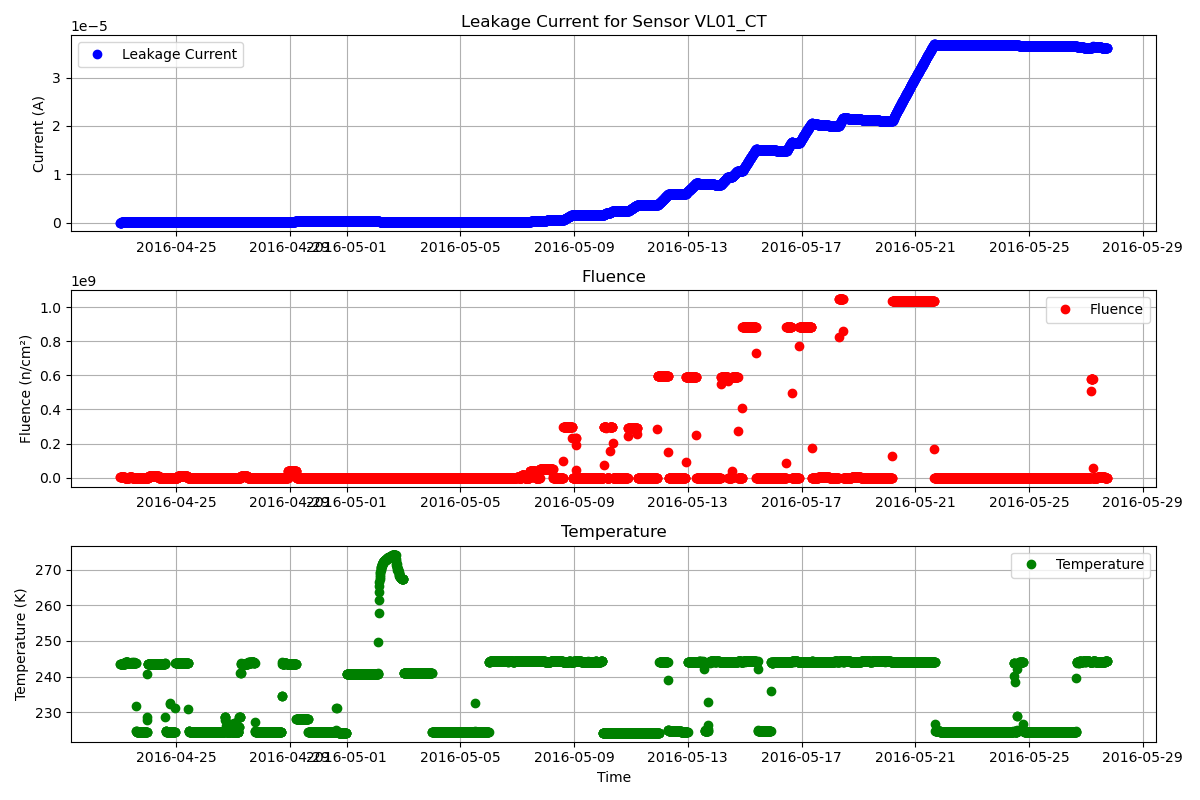
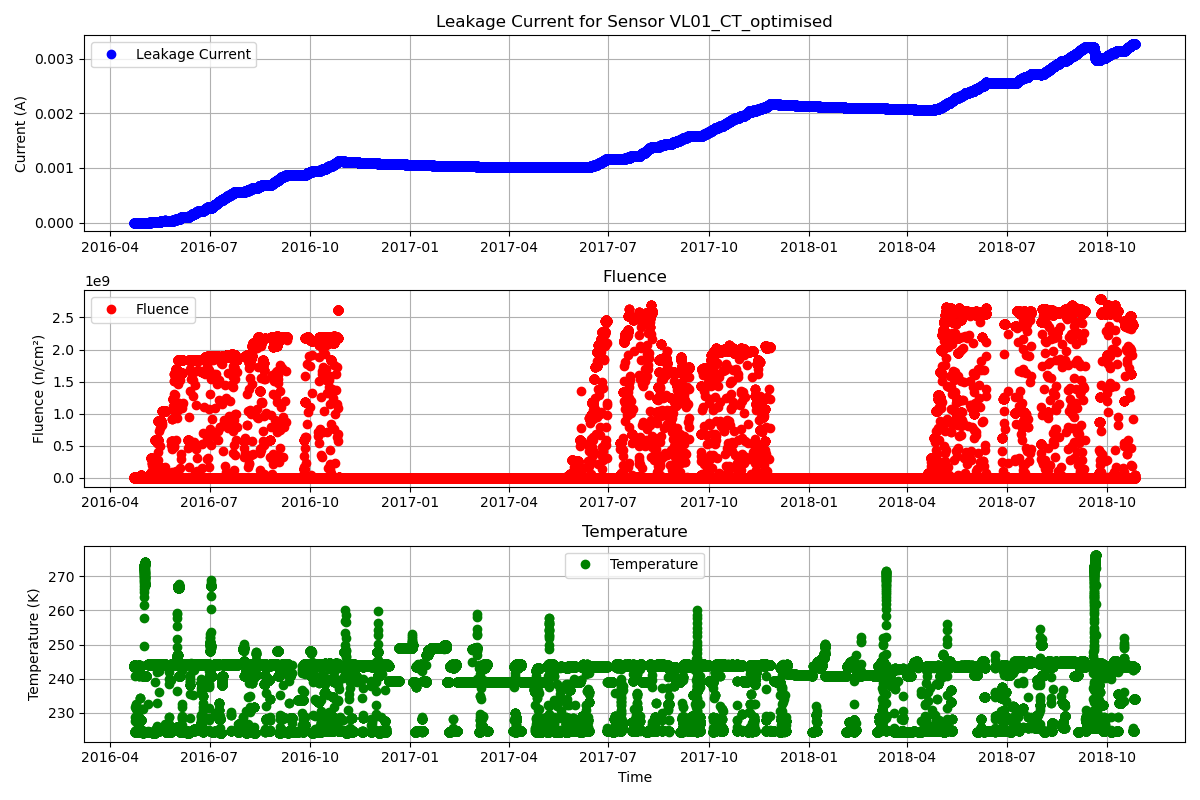
working correctly and fast for one sensor

diff --git a/fluence_lib.py b/fluence_lib.py
@@ -97,17 +97,20 @@ import numpy as np
 def calculate_leakage_current(fluence, time_tau, time_theta, alpha_I, alpha_0_star, beta, V):
     I_leak = 0.0
     N = len(fluence)
-    
-    for i in range(N):
-        sum_1 = np.sum(time_tau[i:])
-        sum_2 = np.sum(time_theta[i:])
-        
+    sum_1 = 0.0
+    sum_2 = 0.0
+
+    # Precompute cumulative sums in reverse order
+    for i in range(N - 1, -1, -1):
+        sum_1 += time_tau[i]
+        sum_2 += time_theta[i]
+
         # Calculate alpha
         alpha = alpha_I * np.exp(-sum_1) + alpha_0_star - beta * np.log(sum_2)
-        
+
         # Calculate leakage current
         I_leak += fluence[i] * V * alpha
-        
+
     return I_leak
 
 
@@ -137,8 +140,9 @@ def simulate_current_sensor(fluence_df: pd.Series, temp_df: pd.Series, sensor_na
     N = len(result)
     for n in tqdm.tqdm(range(N)):
         I_leak = 0.0
-        if n == 5000:
-            break
+        if n == 100000:
+            print(n)
+            #break
         # Call the Numba-optimized leakage current function
         I_leak = calculate_leakage_current(result['fluence'].iloc[:n].values, time_tau[:n], time_theta[:n], 
                                            params.alpha_I, params.alpha_0_star, params.beta, params.V)
